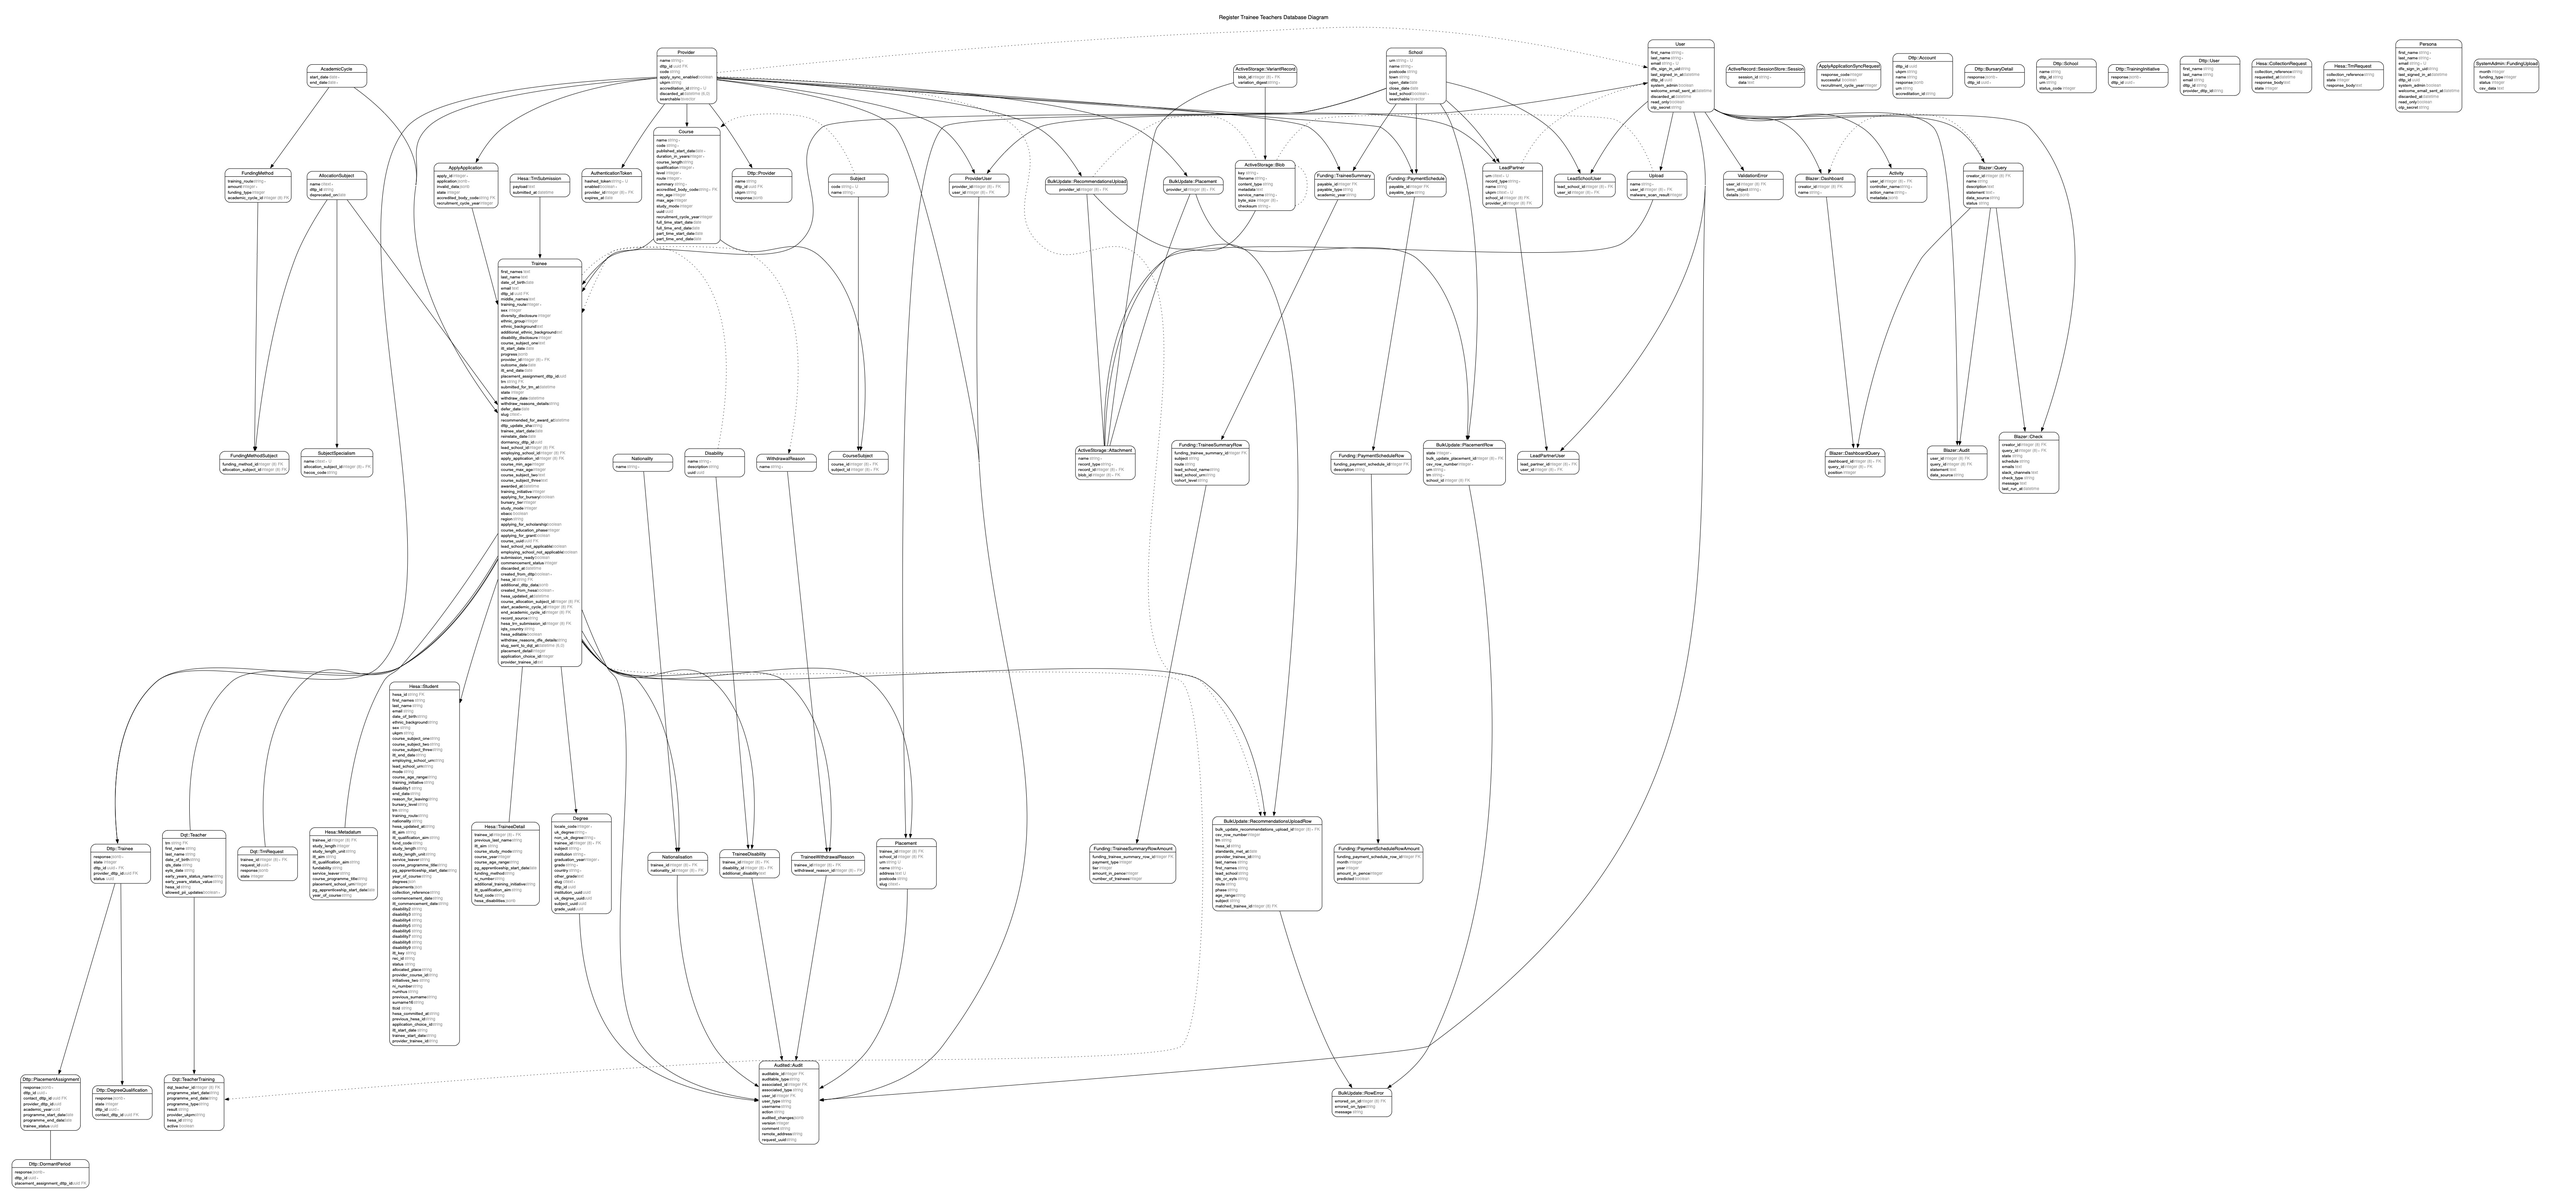
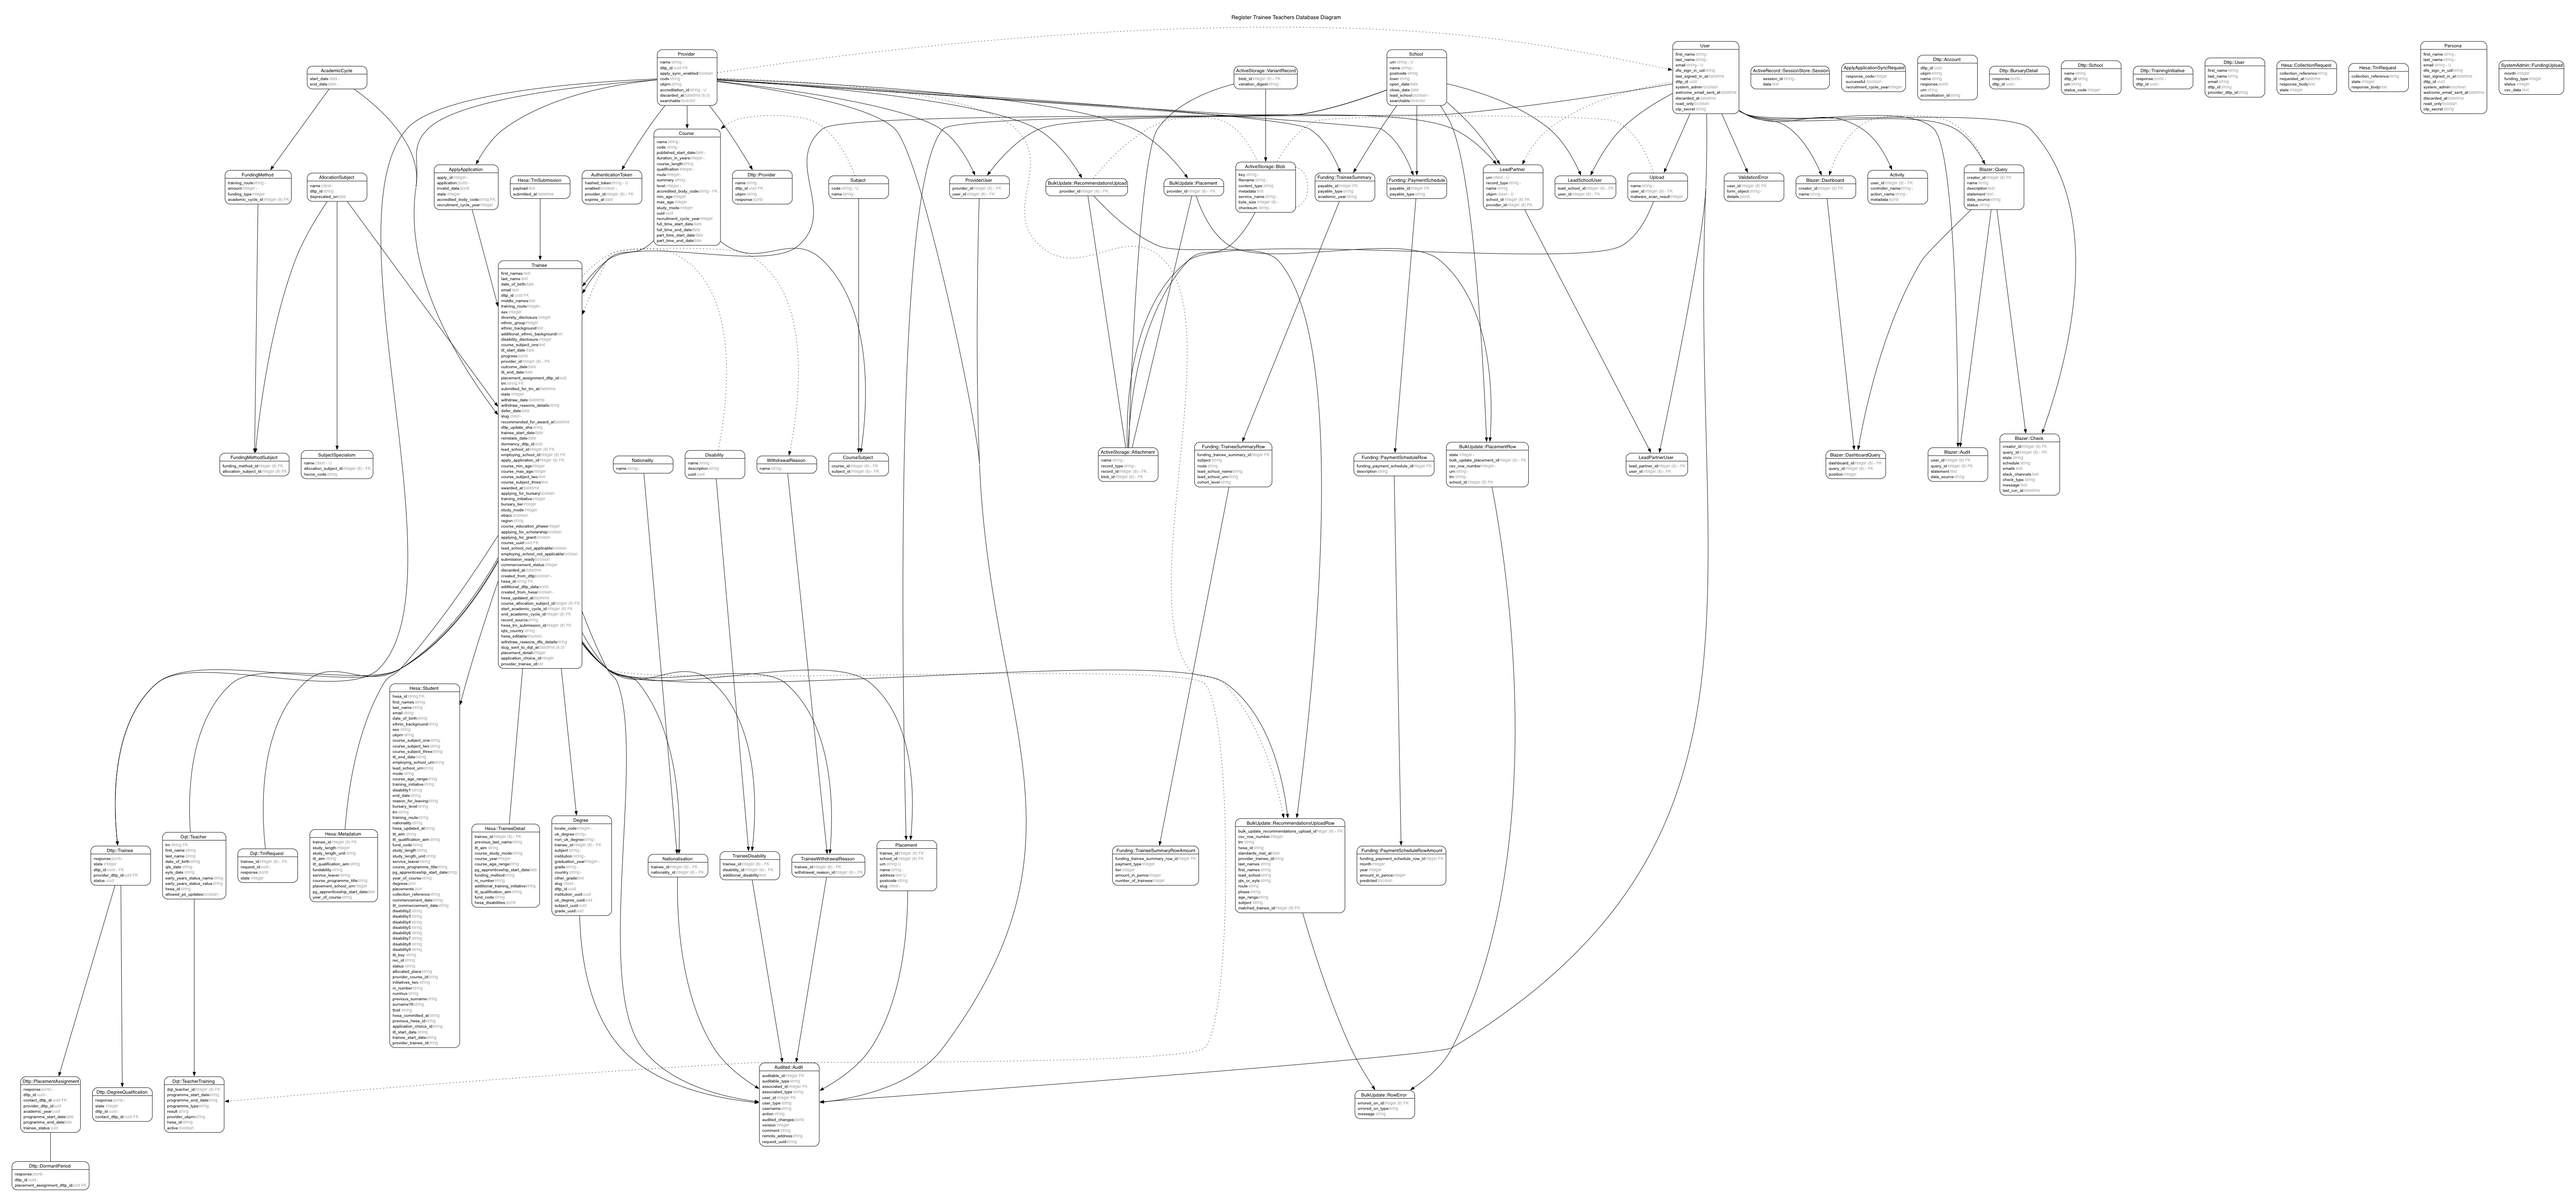
Remove not null constraint on `lead_partners.urn`
It's only used for schools.

diff --git a/db/schema.rb b/db/schema.rb
@@ -10,7 +10,7 @@
 #
 # It's strongly recommended that you check this file into your version control system.
 
-ActiveRecord::Schema[7.1].define(version: 2024_06_13_142252) do
+ActiveRecord::Schema[7.1].define(version: 2024_07_01_234917) do
   # These are extensions that must be enabled in order to support this database
   enable_extension "btree_gist"
   enable_extension "citext"
@@ -697,7 +697,7 @@ ActiveRecord::Schema[7.1].define(version: 2024_06_13_142252) do
   end
 
   create_table "lead_partners", force: :cascade do |t|
-    t.citext "urn", null: false
+    t.citext "urn"
     t.string "record_type", null: false
     t.string "name"
     t.citext "ukprn"

diff --git a/app/models/lead_partner.rb b/app/models/lead_partner.rb
@@ -8,7 +8,7 @@
 #  name        :string
 #  record_type :string           not null
 #  ukprn       :citext
-#  urn         :citext           not null
+#  urn         :citext
 #  created_at  :datetime         not null
 #  updated_at  :datetime         not null
 #  provider_id :bigint

diff --git a/db/migrate/20240701234917_alter_lead_partners_urn_remove_not_null.rb b/db/migrate/20240701234917_alter_lead_partners_urn_remove_not_null.rb
@@ -1,0 +1,7 @@
+# frozen_string_literal: true
+
+class AlterLeadPartnersUrnRemoveNotNull < ActiveRecord::Migration[7.1]
+  def change
+    change_column_null :lead_partners, :urn, true
+  end
+end
